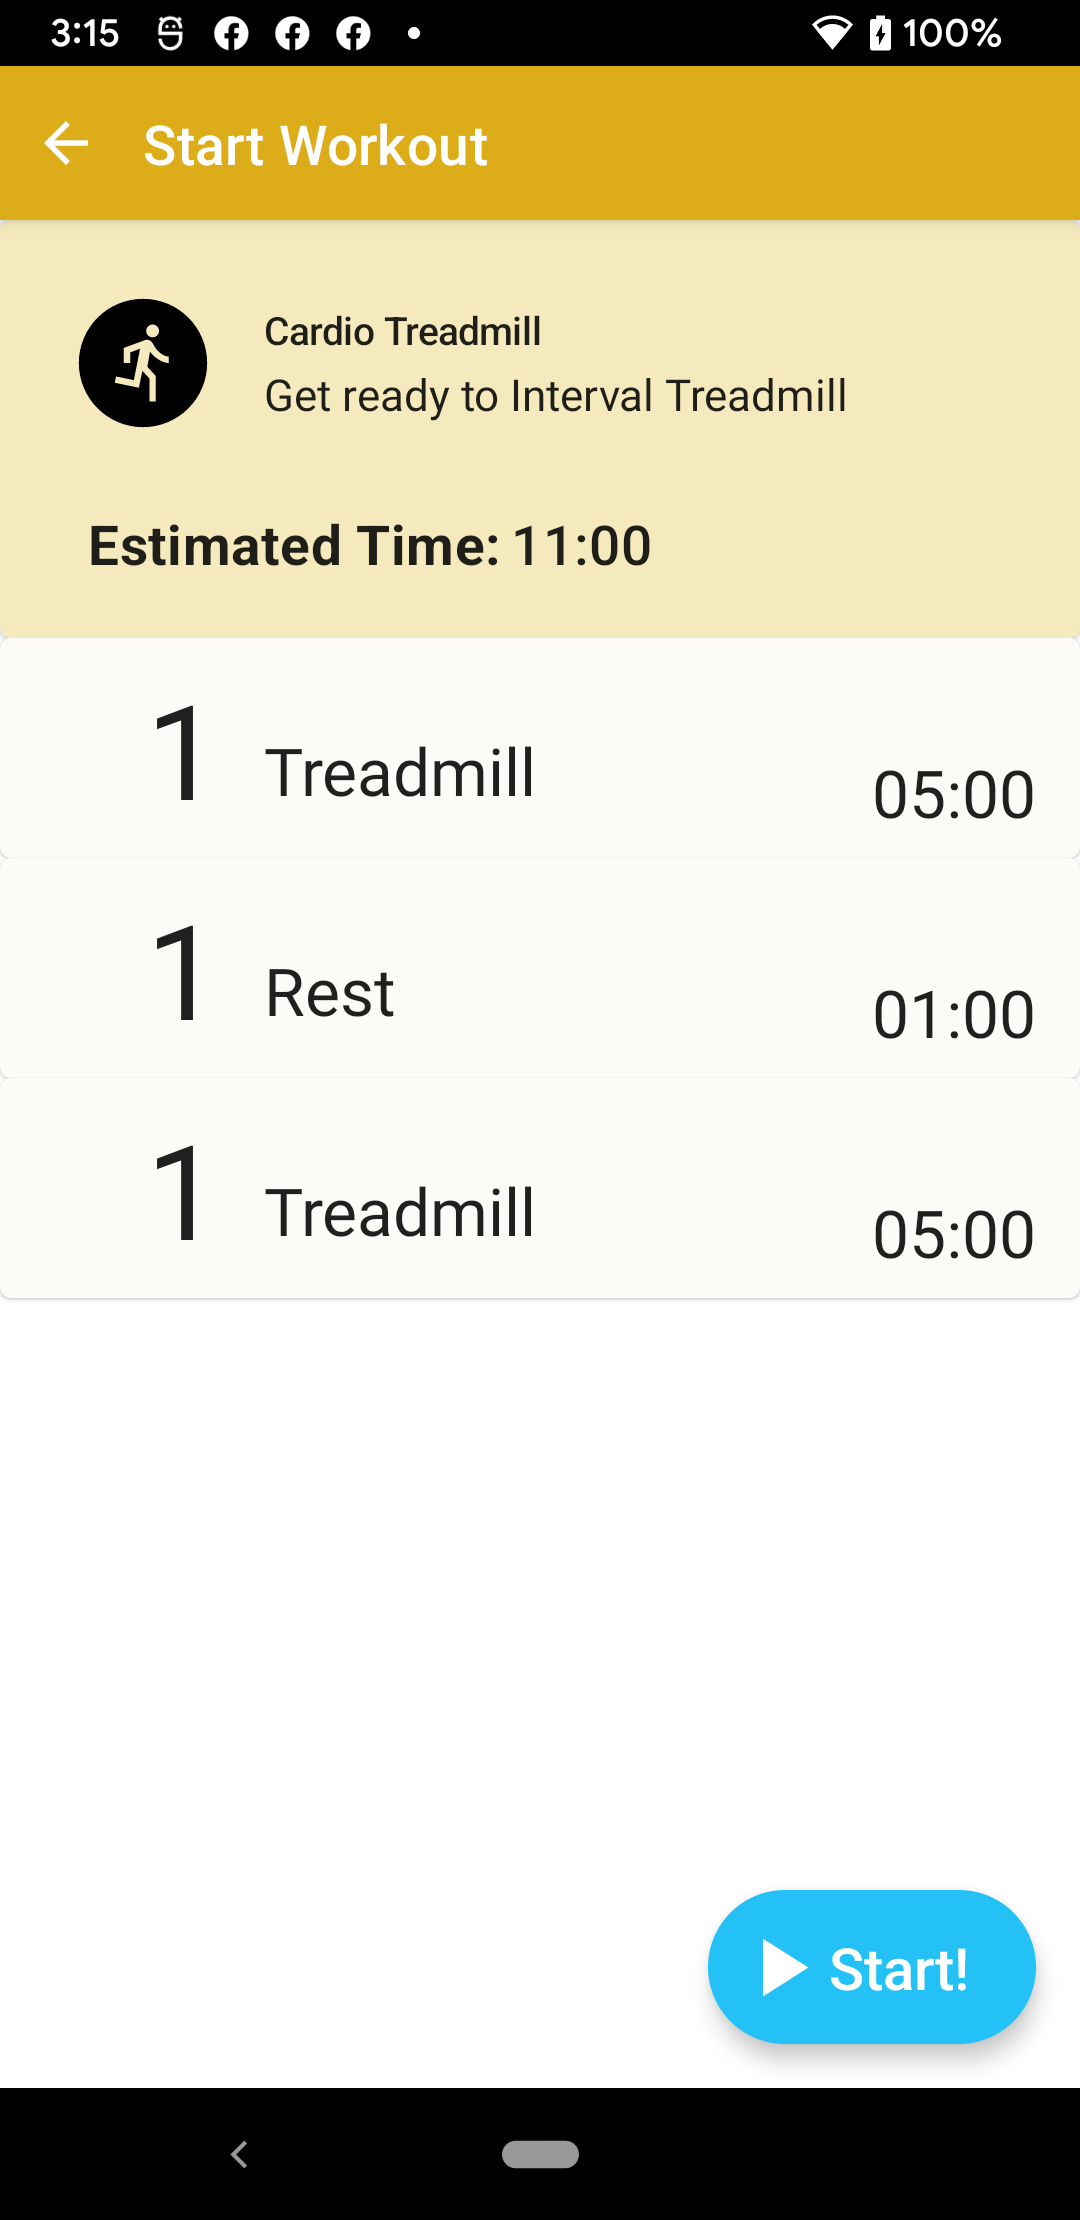
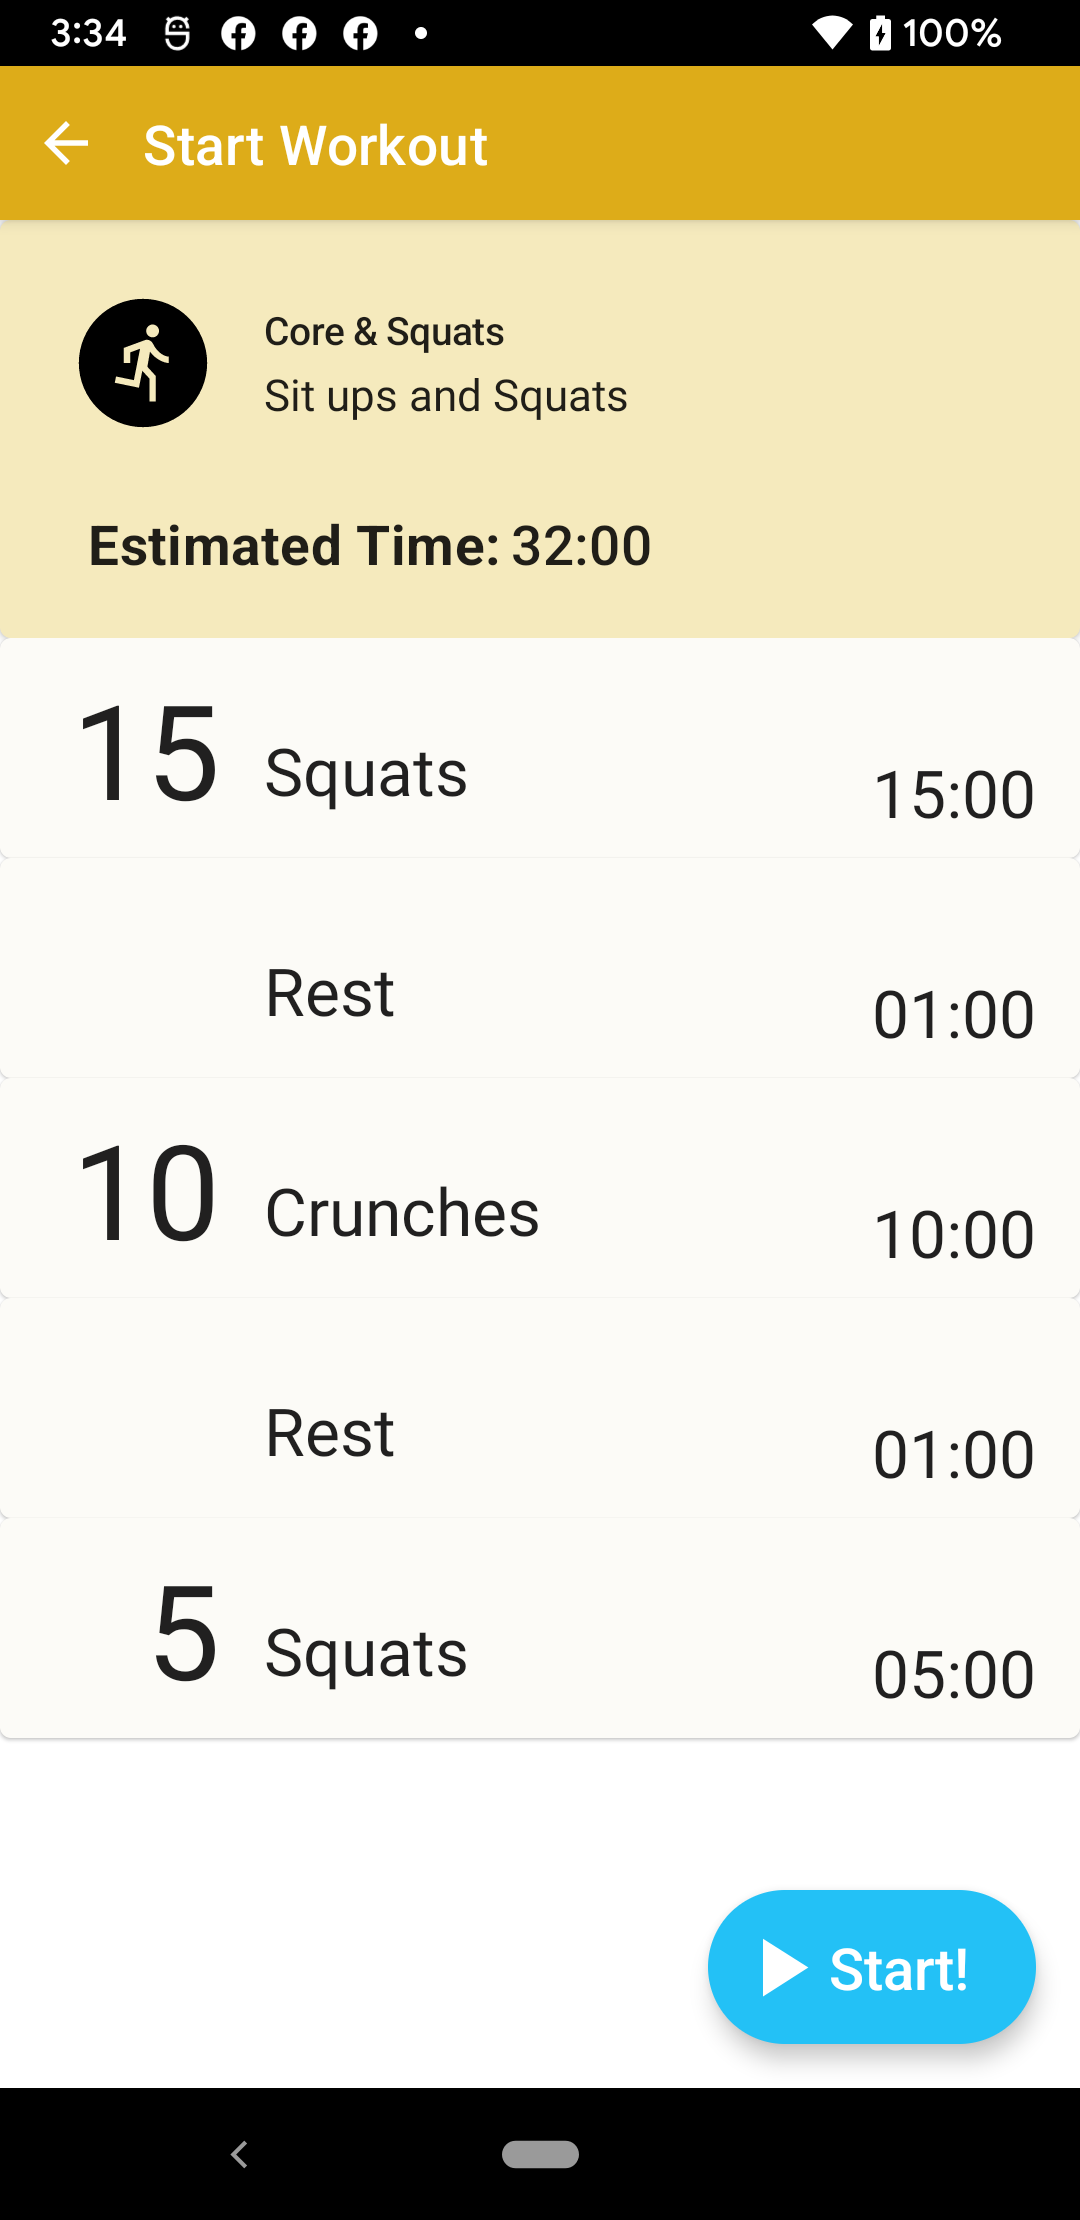
Clean up UI to not show quantity on non-reps / 1 rep items

diff --git a/android/AgilityFitTodayApp/app/src/main/java/com/laurenyew/agilityfittodayapp/data/models/WorkoutItemBase.kt b/android/AgilityFitTodayApp/app/src/main/java/com/laurenyew/agilityfittodayapp/data/models/WorkoutItemBase.kt
@@ -8,12 +8,14 @@ sealed class WorkoutItemBase(
     val name: String,
     val description: String,
     val baseEstimatedTime: Long, // in minutes
+    val isMeasuredInReps: Boolean,
     val workoutType: WorkoutType
 ) {
     object Rest : WorkoutItemBase(
         name = "Rest",
         description = "Rest, Breathe, & Hydrate",
         baseEstimatedTime = 1,
+        isMeasuredInReps = false,
         workoutType = WorkoutType.REST
     )
 
@@ -21,6 +23,7 @@ sealed class WorkoutItemBase(
         name = "Crunches",
         description = "On your back, hands behind head, half sit-up",
         baseEstimatedTime = 1,
+        isMeasuredInReps = true,
         workoutType = WorkoutType.CORE
     )
 
@@ -28,6 +31,7 @@ sealed class WorkoutItemBase(
         name = "Push-ups",
         description = "In a plank position with your hands below your shoulders, bend and straighten your elbows to 90 degrees",
         baseEstimatedTime = 1,
+        isMeasuredInReps = true,
         workoutType = WorkoutType.UPPER_BODY_STRENGTH
     )
 
@@ -35,6 +39,7 @@ sealed class WorkoutItemBase(
         name = "Squats",
         description = "Knees over ankles, bend your knees with straight back (w/ or w/o weights)",
         baseEstimatedTime = 1,
+        isMeasuredInReps = true,
         workoutType = WorkoutType.LOWER_BODY_STRENGTH
     )
 
@@ -42,6 +47,7 @@ sealed class WorkoutItemBase(
         name = "Treadmill",
         description = "Walk / Run in intervals on the treadmill",
         baseEstimatedTime = 5,
+        isMeasuredInReps = false,
         workoutType = WorkoutType.CARDIO
     )
 
@@ -49,6 +55,7 @@ sealed class WorkoutItemBase(
         name = "Stretch",
         description = "Stretch / Cooldown",
         baseEstimatedTime = 5,
+        isMeasuredInReps = false,
         workoutType = WorkoutType.STRETCH
     )
 }

diff --git a/android/AgilityFitTodayApp/app/src/main/java/com/laurenyew/agilityfittodayapp/ui/compose/WorkoutListitemComposable.kt b/android/AgilityFitTodayApp/app/src/main/java/com/laurenyew/agilityfittodayapp/ui/compose/WorkoutListitemComposable.kt
@@ -44,9 +44,16 @@ fun WorkoutItemListItem(
         mutableStateOf(item.isFavorite)
     }
 
+    val quantity = item.quantity
+    val quantityText = if (quantity > 1 && item.itemBase.isMeasuredInReps) {
+        quantity.toString()
+    } else {
+        " "
+    }
+
     ListItemComposable(
         title = item.itemBase.name,
-        largeText = item.quantity.toString(),
+        largeText = quantityText,
         timing = if (shouldShowTiming) item.estimatedTimeFormattedString() else null,
         isFavorite = onItemFavorited?.let { isFavorite },
         onItemFavorited = onItemFavorited,
